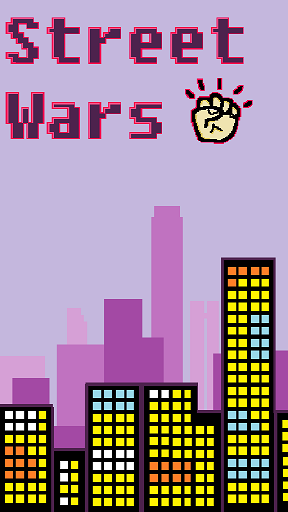
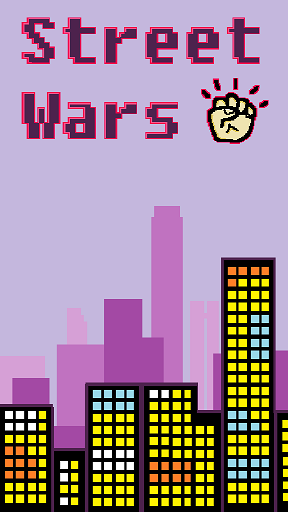
going horizontal

Changed region(s): [[0.0, 0.0312, 0.9062, 0.125], [0.0, 0.1562, 0.625, 0.2812], [0.625, 0.1562, 0.9375, 0.2812]]

diff --git a/core/src/com/david/casey/screens/MenuScreen.java b/core/src/com/david/casey/screens/MenuScreen.java
@@ -33,10 +33,9 @@ public class MenuScreen implements Screen {
     private Viewport viewport, buttonsViewport;
     private OrthographicCamera orthographicCamera, buttonOrthographicCamera;
     SpriteBatch buttonBatch;
-    //to make the buttons as actors you can add a button that is an actor to a stage?
     Stage stage;
     TextButton quickMatchButton;
-    //TextButton myProfileButton;    WILL ADD PROFILE FUNCTIONALITY LATER
+    //TextButton myProfileButton;
     TextureAtlas quickMatchTextureAtlas;
     Skin skin;
     BitmapFont bitmapFont;
@@ -47,23 +46,7 @@ public class MenuScreen implements Screen {
      * 1/17/2017 Understanding Viewports and Aspect Ratios
      * Viewport is a window into the game, and how that looks on different devices
      * Viewports allow the game to be viewed on multiple screen sizes, FitViewport is best
-     *
-     *
-     *
-     *
-     *
-     *
-     *
-     *
-     *
-     *
      * buttons size is 104x58
-     *
-     *
-     *
-     *
-     *
-     *
      *******************************************************************************/
     public MenuScreen(final GameClass game) {
         //1. initialize game class
@@ -81,7 +64,7 @@ public class MenuScreen implements Screen {
         game.batch = new SpriteBatch();
         buttonBatch = new SpriteBatch();
         //5. load the menuscreen picture
-        background = new Texture(Gdx.files.internal("MenuScreen.png"));
+        background = new Texture(Gdx.files.internal("MenuScreen2.png"));
         //quickmatchButton = new Texture(Gdx.files.internal("QuickmatchButtons/QuickmatchButton_DOWN.png"));
         //6. create a stage that the buttons can be a part of -- stage is a place for actors... the button will be an actor in this case
         stage = new Stage(buttonsViewport, buttonBatch );
@@ -105,13 +88,13 @@ public class MenuScreen implements Screen {
         //15. make the new text button
         quickMatchButton = new TextButton("", textButtonStyle);
         //16. add the actor to the screen
-        quickMatchButton.setPosition(288/3,(512/5)*2);
+        quickMatchButton.setPosition((512/5)*2, 288/3);
         stage.addActor(quickMatchButton);
         //17. add a listener to the button
         quickMatchButton.addListener(new ChangeListener() {
             @Override
             public void changed(ChangeEvent event, Actor actor) {
-                game.setScreen(new CharacterSelectionScreen());
+                game.setScreen(new ShittyPetesWharfScreen(game));
                 dispose();
             }
         });
@@ -128,14 +111,12 @@ public class MenuScreen implements Screen {
         Gdx.gl.glEnable(GL20.GL_TEXTURE_2D);
         Gdx.gl.glClear(GL20.GL_COLOR_BUFFER_BIT);
         game.batch.setProjectionMatrix(orthographicCamera.combined);
-
         orthographicCamera.update();
         //game.batch.enableBlending();
         game.batch.begin();
         game.batch.draw(background,0,0); //,GameClass.MENU_STATE_WIDTH,GameClass.MENU_STATE_HEIGHT);
         //game.batch.draw(quickmatchButton,GameClass.MENU_STATE_WIDTH/3,(GameClass.MENU_STATE_HEIGHT/5)*2);
         game.batch.end();
-
 
         /*
                 This is super important and you need to pay attention to how the stage batch draw sits above the
@@ -180,7 +161,7 @@ public class MenuScreen implements Screen {
 
     @Override
     public void dispose() {
-        game.batch.dispose();
+        //game.batch.dispose();
         stage.dispose();
         buttonBatch.dispose();
     }

diff --git a/core/src/com/david/casey/screens/ShittyPetesWharfScreen.java b/core/src/com/david/casey/screens/ShittyPetesWharfScreen.java
@@ -1,13 +1,19 @@
 package com.david.casey.screens;
 
+import com.badlogic.gdx.Game;
+import com.badlogic.gdx.Gdx;
 import com.badlogic.gdx.Screen;
+import com.badlogic.gdx.graphics.GL20;
 import com.badlogic.gdx.graphics.OrthographicCamera;
+import com.badlogic.gdx.graphics.Texture;
+import com.badlogic.gdx.graphics.g2d.SpriteBatch;
 import com.badlogic.gdx.graphics.g2d.TextureAtlas;
 import com.badlogic.gdx.maps.tiled.TiledMap;
 import com.badlogic.gdx.maps.tiled.TmxMapLoader;
 import com.badlogic.gdx.maps.tiled.renderers.OrthoCachedTiledMapRenderer;
 import com.badlogic.gdx.physics.box2d.Box2DDebugRenderer;
 import com.badlogic.gdx.physics.box2d.World;
+import com.badlogic.gdx.utils.viewport.FitViewport;
 import com.badlogic.gdx.utils.viewport.Viewport;
 import com.david.casey.GameClass;
 
@@ -16,31 +22,22 @@ import com.david.casey.GameClass;
  */
 
 public class ShittyPetesWharfScreen implements Screen {
-    //reference the game
-    private GameClass gameClass;
+    private GameClass game;
     private TextureAtlas yourTextureAtlas;
-
-    //variables for this screen
     private OrthographicCamera orthographicCamera;
     private Viewport viewport;
-    // add this -> private Hud hud;
-
-    //tiled map variables
-    private TmxMapLoader tmxMapLoader;
-    private TiledMap tiledMap;
-    OrthoCachedTiledMapRenderer orthoCachedTiledMapRenderer;
-
-    //box2d physics variables
+    private Texture backgroundTexture;
     private World world;
     private Box2DDebugRenderer b2dr;
-    // add this -> private B2
-
-    public ShittyPetesWharfScreen(GameClass gameClass) {
+    public ShittyPetesWharfScreen(GameClass game) {
         //yourTextureAtlas = new TextureAtlas()
-        this.gameClass = gameClass;
+        this.game = game;
         orthographicCamera = new OrthographicCamera();
+        orthographicCamera.setToOrtho(false,GameClass.SHITTY_PETES_WHARF_WIDTH,GameClass.SHITTY_PETES_WHARF_HEIGHT);
+        this.viewport = new FitViewport(GameClass.SHITTY_PETES_WHARF_WIDTH, GameClass.SHITTY_PETES_WHARF_HEIGHT,orthographicCamera);
+        game.batch = new SpriteBatch();
+        backgroundTexture = new Texture(Gdx.files.internal("shittyPetesWharfDemo.png"));
 
-        //
 
 
 
@@ -53,6 +50,15 @@ public class ShittyPetesWharfScreen implements Screen {
 
     @Override
     public void render(float delta) {
+        Gdx.gl.glEnable(GL20.GL_TEXTURE_2D);
+        Gdx.gl.glClear(GL20.GL_COLOR_BUFFER_BIT);
+        game.batch.setProjectionMatrix(orthographicCamera.combined);
+        orthographicCamera.update();
+        //game.batch.enableBlending();
+        game.batch.begin();
+        game.batch.draw(backgroundTexture,0,0); //,GameClass.MENU_STATE_WIDTH,GameClass.MENU_STATE_HEIGHT);
+        //game.batch.draw(quickmatchButton,GameClass.MENU_STATE_WIDTH/3,(GameClass.MENU_STATE_HEIGHT/5)*2);
+        game.batch.end();
 
     }
 
@@ -78,7 +84,7 @@ public class ShittyPetesWharfScreen implements Screen {
 
     @Override
     public void dispose() {
-
+        game.batch.dispose();
     }
 }
 

diff --git a/core/src/com/david/casey/GameClass.java b/core/src/com/david/casey/GameClass.java
@@ -29,8 +29,12 @@ http://www.gabrielgambetta.com/fpm1.html
 
 public class GameClass extends Game {
     public SpriteBatch batch;
-    public static final int MENU_STATE_WIDTH = 288;
-    public static final int MENU_STATE_HEIGHT = 512;
+    public static final int MENU_STATE_WIDTH = 512;
+    public static final int MENU_STATE_HEIGHT = 288;
+    public static final int SHITTY_PETES_WHARF_WIDTH = 512;
+    public static final int SHITTY_PETES_WHARF_HEIGHT = 288;
+
+
 
     public static final float PPM = 100;
 

diff --git a/desktop/src/com/david/casey/desktop/DesktopLauncher.java b/desktop/src/com/david/casey/desktop/DesktopLauncher.java
@@ -7,8 +7,8 @@ import com.david.casey.GameClass;
 public class DesktopLauncher {
 	public static void main (String[] arg) {
 		LwjglApplicationConfiguration config = new LwjglApplicationConfiguration();
-		config.width = 288;
-		config.height = 512;
+		config.width = 512;
+		config.height = 288;
 		new LwjglApplication(new GameClass(), config);
 	}
 }
